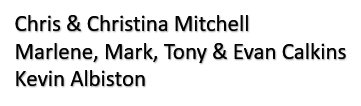
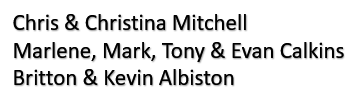
Deploying to gh-pages from @ frc8724/frc8724.github.io@e6b6e1ce2c4497744e4ffdc756e5c84c64a87cbb 🚀

Changed region(s): [[0.0305, 0.3824, 0.9751, 0.6176], [0.0305, 0.1176, 0.7008, 0.3235], [0.0305, 0.6471, 0.6704, 0.8529]]

diff --git a/sponsors.html b/sponsors.html
@@ -168,11 +168,11 @@
     
     
     
-    <a href="https://www.argosyfnd.org" target="_blank" class="hover:scale-[1.02] hover:no-underline transition-transform">
+    <a href="https://wirebelt.com/" target="_blank" class="hover:scale-[1.02] hover:no-underline transition-transform">
       <div class="flex items-center justify-center rounded-md p-5 font-bold text-2xl text-gray-700 h-full"
-        style="background-color:  white" title="Argosy Foundation">
+        style="background-color:  white" title="Wire Belt Company of America">
         
-        <img class="sponsor-img" src="/assets/images/sponsors/argosy.png" alt="Argosy Foundation" />
+        <img class="sponsor-img" src="/assets/images/sponsors/wirebelt.png" alt="Wire Belt Company of America" />
         
       </div>
     </a>
@@ -241,17 +241,6 @@
       <img src="/assets/images/sponsors/metalworks.png" alt="Metal Works" />
       
     </div>
-    
-    
-    
-    <a href="https://www.gmfco.com" target="_blank" class="hover:scale-[1.02] hover:no-underline transition-transform">
-      <div class="flex items-center justify-center rounded-md p-5 font-bold text-2xl text-gray-700 h-full"
-        style="background-color:  white" title="Gilchrist Metal Fabricating">
-        
-        <img class="sponsor-img" src="/assets/images/sponsors/gilchrist.jpg" alt="Gilchrist Metal Fabricating" />
-        
-      </div>
-    </a>
     
     
     
@@ -330,6 +319,42 @@
         
       </div>
     </a>
+    
+    
+    
+    <div class="flex items-center justify-center rounded-md p-5 font-bold text-2xl text-gray-700"
+      style="background-color:  white" title="Chris & Christina Mitchell">
+      
+      Chris & Christina Mitchell
+      
+    </div>
+    
+    
+    
+    <div class="flex items-center justify-center rounded-md p-5 font-bold text-2xl text-gray-700"
+      style="background-color:  white" title="Britton & Kevin Albiston">
+      
+      Britton & Kevin Albiston
+      
+    </div>
+    
+    
+    
+    <div class="flex items-center justify-center rounded-md p-5 font-bold text-2xl text-gray-700"
+      style="background-color:  white" title="Marlene, Mark, Tony, & Evan Calkins">
+      
+      Marlene, Mark, Tony, & Evan Calkins
+      
+    </div>
+    
+    
+    
+    <div class="flex items-center justify-center rounded-md p-5 font-bold text-2xl text-gray-700"
+      style="background-color:  white" title="Anonymous Corporate Donor">
+      
+      Anonymous Corporate Donor
+      
+    </div>
     
     
   </div>
